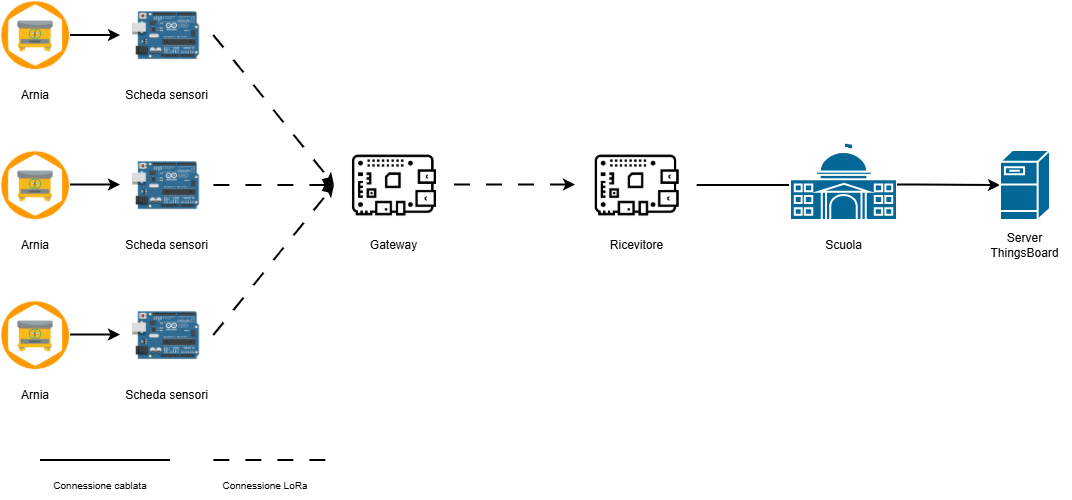
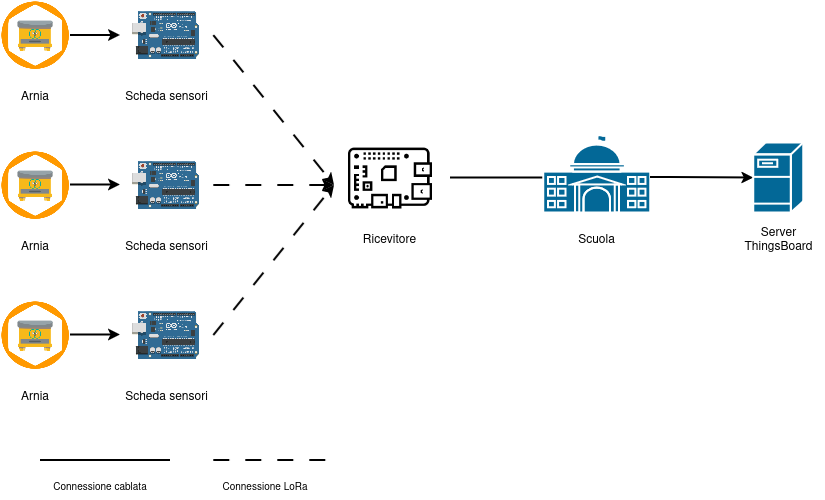
correct technical and functional analysis removing gateway from documentation

diff --git a/Relazioni/backend/analisi-tecnica.md b/Relazioni/backend/analisi-tecnica.md
@@ -9,10 +9,6 @@ Per la misura dei parametri all'interno dell'alveare si fa uso di un sistema sen
 
 Nel sistema si trova inoltre un microcontrollore con lo scopo di misurare questi parametri. Questo è basato su *ESP32* con supporto per *LoRa* tramite chip *SX1262*.
 
-## Gateway arnie
-Il gateway è l'elemento che si occupa della ricezione delle informazioni dalle arnie stesse, per permettere un invio di queste verso il ricevitore tramite il protocollo *Niagara*, che successivamente si occuperà dell'invio a ThingsBoard per l'aggiunta delle misure al database.  
-Il gateway ha lo scopo di attendere una richiesta dal ricevitore delle misurazioni, in quanto quest'ultimo, essendo connesso a Internet, è al corrente della data e dell'ora e ha l'obiettivo di richiedere tre misure giornaliere alle arnie.  
-Il sistema sensoristico può effettuare più misure di quelle che vengono richieste dal ricevitore, effettuando solamente l'invio di questi dati sulla rete *LoRa* su richiesta da parte di quest'ultimo. Ciò avviene quando si deve fornire una lettura media delle misure attraverso l'intervallo delle otto ore fra una misura e l'altra, anziché una lettura istantanea.
 
 ## Ricevitore misurazioni
 La ricezione delle misurazioni viene effettuata attraverso un software in esecuzione su un *Raspberry Pi* che implementa il protocollo *Niagara* per la comunicazione con le arnie.  

diff --git a/Relazioni/backend/analisi-funzionale.md b/Relazioni/backend/analisi-funzionale.md
@@ -4,7 +4,6 @@
 
 Il sistema per la raccolta dati dell'alveare deve seguire il seguente schema di funzionamento:
 1. **SCHEDA ALVEARE** deve raccogliere le varie misurazioni con una frequenza che rispetta le esigenze di monitoraggio. In seguito attraverso protocollo LoRa dovrà inviare le informazioni al gateway secondo un intervallo predefinito. Tempi di misurazione e di invio potrebbero non coincidere tra loro, così come ogni misurazione potrebbe non necessitare della stessa frequenza.
-2. **GATEWAY** raccoglie i dati e li invia all'antenna di ricezione nell'edificio più vicino con un intervallo definito in base alle esigenze e fattori esterni (tolleranza delle api alle onde).
 3. **RICEVITORE** riceve i dati dal gateway e li invia immediatamente al server ThingsBoard per il relativo salvataggio.
 4. **SCHEDULER** si occupa dell'invio di richieste periodiche al server per il monitoraggio delle telemetrie dei diversi dispositivi. Tale funzione potrebbe essere assolta dallo stesso dispositivo che compie la funzione del ricevitore.
 5. **SERVER** il server deve essere configurato con ThingsBoard e ricevere correttamente i dati. Deve inoltre prevedere la ricevuta di alcune richieste da dispositivi per eseguire controlli sui dati e generare eventuali allarmi/informazioni. 